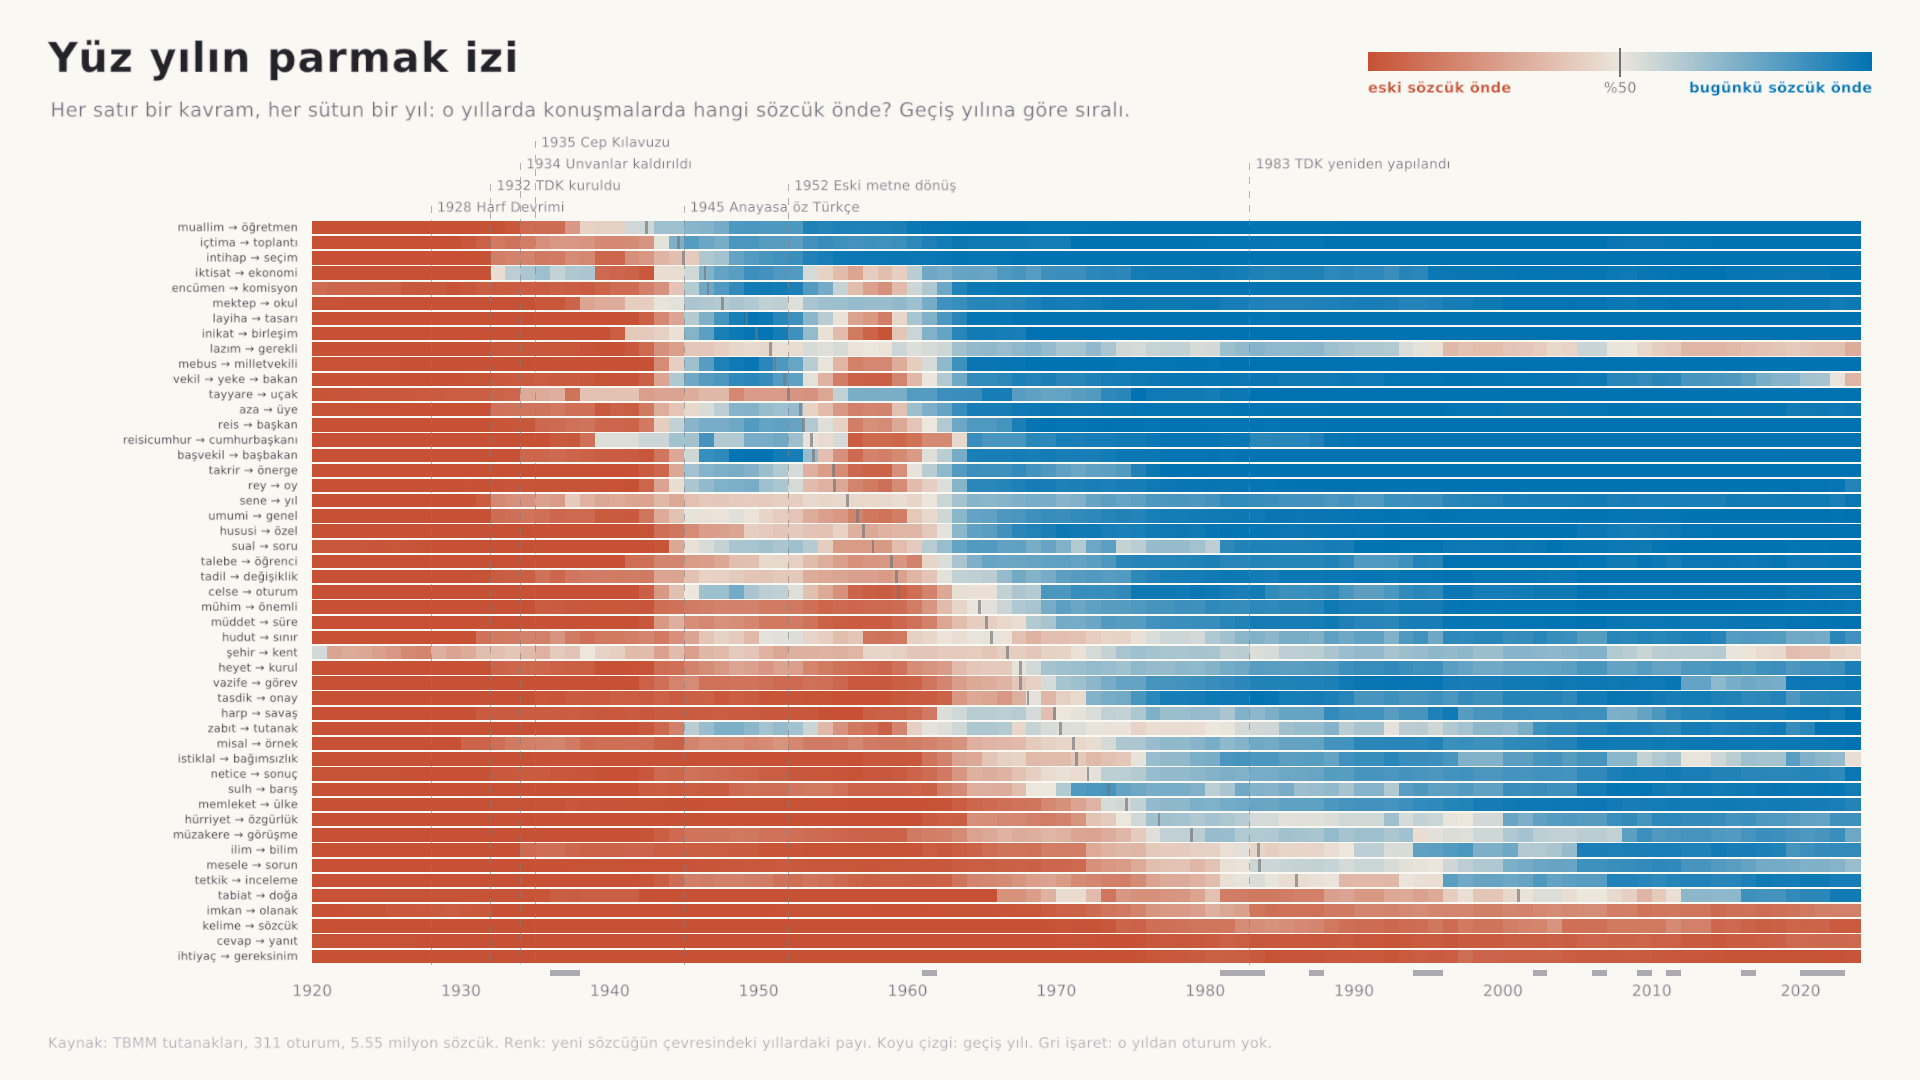
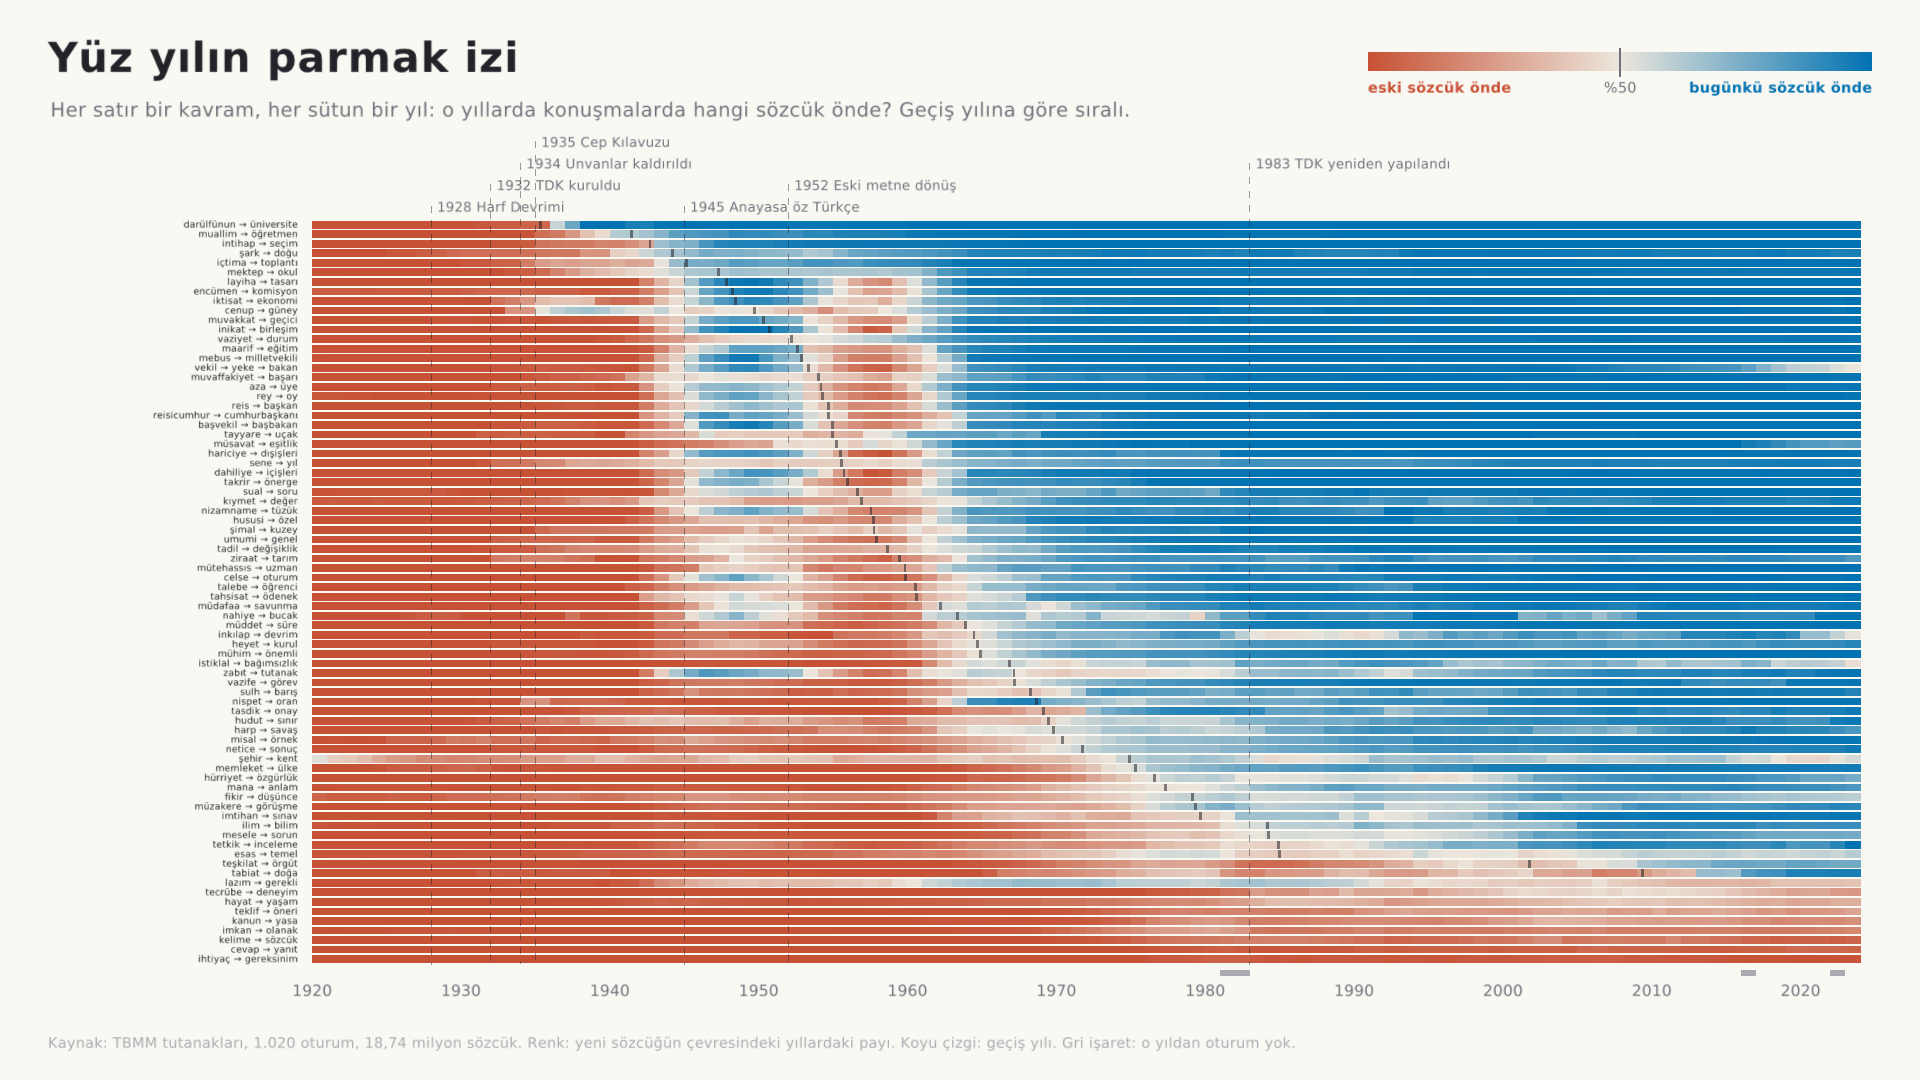
Results on the full download: 1,020 sittings, 18.7 million words
The README results, the docs images and the theme tests now come from the
small and the large sample together; the website's voices of the year come
from every five years.

diff --git a/README.md b/README.md
@@ -33,10 +33,11 @@ make web      # the website: out/web/index.html, one file that opens in any brow
 make video    # the two animations as MP4 files in out/ (29 s and 44 s, under 4 MB together)
 ```
 
-The small sample used for the results below is about 260 sittings: 6 volumes × 2 sittings per term. To build it:
+The results below come from two samples together: the small one (about 260 sittings, 6 volumes × 2 sittings per term) and the large one (`data/large_urls.txt`, about 770 more). To build them:
 
 ```sh
 make sample    # downloads data/sample_urls.txt (about an hour, polite to the server) and builds the database
+make large     # adds data/large_urls.txt (several hours)
 make figures   # then every chart
 ```
 
@@ -81,8 +82,8 @@ It also rejoins hyphenated words, reads the date (including the Ottoman calendar
   - Function words (*ve, ama, her*) are left out: many are Arabic or Persian, but they were never replaced.
 - **The age of a text.** Every five years has its own word frequencies (*sene* in 1925, *yıl* in 2015). `evo date` guesses when a text was spoken from its words alone: a naive Bayes classifier that adds up, word by word, how much likelier the word is in one period than in another. It uses only the 20,000 most used dictionary word forms, not names, so it reads the language and not the ministers of the day.
   - **The test** (`evo datetest`): every sitting is dated with its whole volume taken out of the model, since sittings of one volume are days apart and share their topics.
-  - **Results on the small sample:** off by 4.3 years on average for a whole sitting, 4.9 for 200 words and 10.4 for 20 words (one sentence). Always guessing the middle year would be off by 24.1.
-  - **It can be fooled.** It puts Atatürk's *Gençliğe Hitabe* (1927) in the 1970s, because its words (*Türk*, *gençliği*, *istiklalini*) were common in the speeches of that decade. The opening of *Nutuk* (1927) lands in 1935–39.
+  - **Results** (1,020 sittings): off by 2.8 years on average for a whole sitting, 3.2 for 200 words and 8.5 for 20 words (one sentence). Always guessing the middle year would be off by 23.7.
+  - **It is not always right.** The opening of *Nutuk* (1927) lands in 1920–24, but *Gençliğe Hitabe* (1927) in 1940–44: its rhetoric (*Türk*, *gençliği*, *istiklalini*) stayed common in later speeches. On the small sample it was put in the 1970s; more data moved it closer.
 - **Two eras compared.** `evo eras` ranks words by how typical they are of each era: a log-odds ratio with an informative Dirichlet prior (Monroe, Colaresi & Quinn 2008), so that rare words do not top the list by chance.
 
 ## The charts
@@ -140,29 +141,46 @@ The time machine shows the observed shares (smoothed over a few years), not the 
 - `./evo origins DB out.csv` also lists the most frequent words it could not classify.
 - `./evo clean data/raw/tbmm08012073.txt`: shows exactly what the cleaner keeps.
 
-## Results so far (small sample)
+## Results so far
 
-311 sittings and 5.55 million words, 1920–2023, with the 49 word pairs in `data/concepts.tsv`. The 1936–39 sittings are missing (see below). This is a first look from a small sample and a list of well-known pairs, not final findings. Reproduce it with `make sample && make figures`.
+1,020 sittings and 18.7 million words, 1920–2023 (`data/sample_urls.txt` and `data/large_urls.txt`), with the 78 word pairs in `data/concepts.tsv`. The 1936–39 sittings are missing (see below), and the pairs are well-known ones, so these are findings from a large sample, not yet from an unbiased word list. Reproduce them with `make sample && make large && make figures`.
 
 ![timeline](docs/takvim.png)
 
 - **The vocabulary of parliament changed by half.**
-  - Arabic and Persian words were 73% of the nouns and adjectives used in 1920–24, and 34% in 2020–24.
-  - Turkish words rose from 19% to 52%, Western words from 4% to 10% (`out/origins.csv`).
-- **Most replacements happened 1945–1960, not right after the reforms of the 1930s.** In 45 of the 49 meanings the new word took over: 23 of those 45 crossed 50% between 1945 and 1959, only 2 before 1945.
+  - Arabic and Persian words were 73% of the nouns and adjectives used around 1924, and 35% around 2020 (the numbers on the website's first screen).
+  - Turkish words rose from 19% to 50%, Western words from 4% to 10% (`out/origins.csv`).
+- **Most replacements happened 1945–1960, not right after the reforms of the 1930s.**
+  - In 69 of the 78 meanings the new word took over.
+  - 34 of those 69 crossed 50% between 1945 and 1959; only 4 before 1945.
 - **The 1950s reversal.** After 1952, when the constitution was returned to its 1924 wording, the old official words came back: *vekil, reis, başvekil, mebus, layiha*.
-  - The new word was ahead in 20 of 49 meanings in 1950, in only 8 in 1955, and in 28 in 1965.
-  - The Arabic share of the vocabulary moved the same way: 51% (1945–49), 57% (1955–59), then down.
-- **Parliament's own vocabulary changed first.**
-  - Median crossover year: procedure words (meclis) 1954; education and science 1955; state and politics 1966; everyday words 1966.
-  - Meclis against all others: 11 years earlier, p = 0.075 (permutation test). Suggestive, not significant with 49 meanings; more pairs from the 1935 guide would settle it.
+  - The new word was ahead in 28 of 78 meanings in 1950, in only 8 in 1955, and in 51 in 1965.
+  - The Arabic share of the vocabulary moved the same way: 50% around 1947, 57% around 1957, then down.
+- **The themes changed at different times, but not clearly so.**
+  - Median crossover year: procedure words (meclis) 1954; education and science 1957; state and politics 1961; everyday words 1964.
+  - No theme differs from the rest at p < 0.05 (permutation test). The closest: everyday words, about 7 years later than the rest (p = 0.07).
 - **Some replacements never caught on in parliament.**
-  - Never above half: *yanıt* (at most 6% of uses), *sözcük* (12%), *olanak* (19%), *gereksinim* (4%).
-  - Only partly: *kent* (60%), *görüşme* (76%), *bağımsızlık* (75%), *sorun* (80%), *özgürlük* (80%).
-- **Speed varies a lot.** *intihap → seçim* went from 10% to 90% in 15 years; *sene → yıl* took 53, *şehir → kent* 88.
-- **Turkish words lasted, Arabic ones did not.** Of the 300 most used nouns and adjectives of the 1920s, 67% of the Turkish ones are still in use in the 2020s (at a quarter of their old frequency or more), but only 35% of the Arabic ones (`omur`). Gone almost entirely: *intihap, muvafık, ruzname, muavenet, mezuniyet*.
-- **How MPs address each other changed three times.** *Efendi* (over 10,000 per million words in the 1920s) collapses after the 1934 law that abolished titles; *muhterem* peaks in the late 1950s; *sayın* takes over from the 1960s, and *değerli* rises from the 1970s.
-- **The words of each decade follow history** (`onyillar`): *tütün, toprak, zirai* in the 1960s, *sıkıyönetim* and *senato* in the 1970s, *sektör, proje, banka* in the 2000s, *terör* in the 2010s.
+  - Never above half:
+    - *yanıt*: at most 8% of the uses;
+    - *gereksinim*: 6%;
+    - *sözcük*: 20%;
+    - *olanak*: 29%;
+    - *öneri*: 31%;
+    - *yasa*: 34%;
+    - *yaşam*: 42%;
+    - *deneyim*: 48%.
+  - Only partly: *temel* (55%), *kent* (66%), *bağımsızlık* (68%), *devrim* (76%), *özgürlük* and *düşünce* (78%), *görüşme* and *sorun* (81%).
+- **Speed varies a lot.** *intihap → seçim* went from 10% to 90% in 12 years; *sene → yıl* took 50.
+- **Turkish words lasted, Arabic ones did not.**
+  - Of the 300 most used nouns and adjectives of the 1920s, 73% of the Turkish ones are still in use in the 2020s (at a quarter of their old frequency or more), but only 39% of the Arabic ones (`omur`).
+  - Gone almost entirely: *intihap, ruzname, varidat, muharrir, merbut*.
+- **How MPs address each other changed three times.**
+  - *Efendi*: 9,445 times per million words in the 1920s, 957 in the 1940s, after the 1934 law that abolished titles.
+  - Then *muhterem* in the 1950s, *sayın* from the 1960s, and *değerli* rising later.
+- **The words of each decade follow history** (`onyillar`): *senato* and *anayasa* in the 1970s, *ülke* and *yasa* in the 2000s, *kadın* and *mikrofon* in the 2020s.
+- **A text's words give away its age.**
+  - Dated with its volume left out of the model, a whole sitting is placed 2.8 years from its true year on average, and within 5 years 89% of the time.
+  - A 20-word sentence is off by 8.5 years. Guessing the middle year without reading would be off by 23.7.
 
 ![origins](docs/koken.png)
 
@@ -191,7 +209,7 @@ The time machine shows the observed shares (smoothed over a few years), not the 
 
 1. Re-OCR the 1936–39 scans.
 2. Parse the 1935 guide and draw a random sample of its entries; replace or extend `data/concepts.tsv`.
-3. A larger download: 15–30 sittings per year.
+3. An even larger download: 15–30 sittings per year (now about 10).
 4. Check every chosen word with `kwic` and record the decisions in `data/exclusions.tsv`.
 
 ## Data and licences
